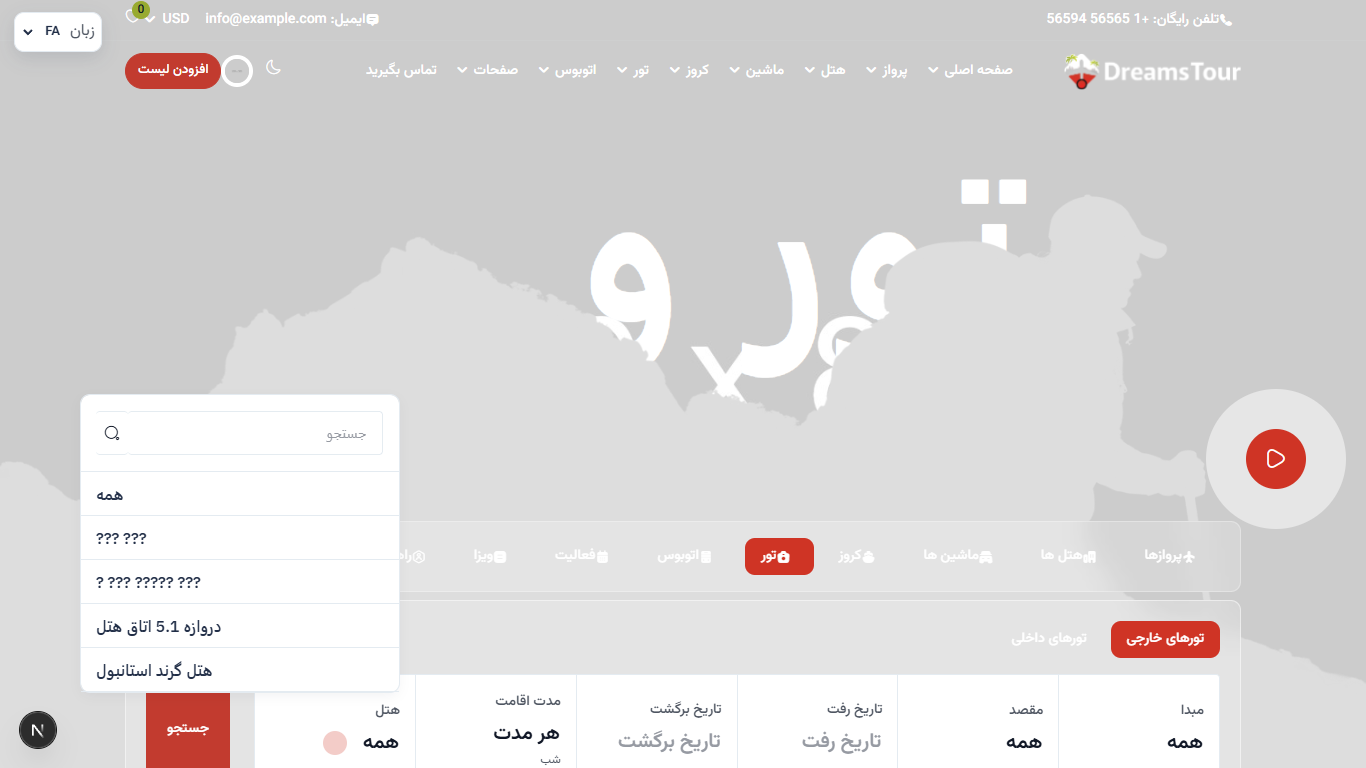
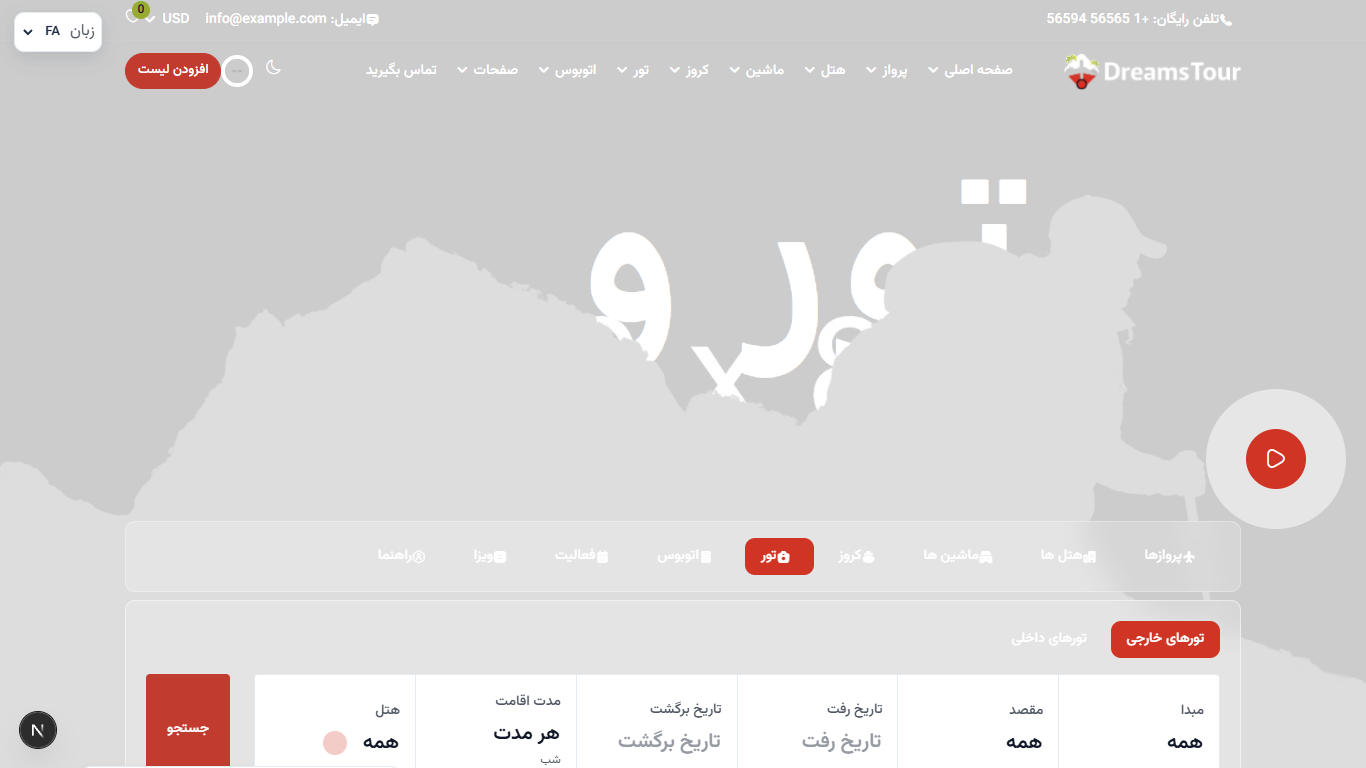
fix: keep dropdowns below and deduplicate date modal title

Changed region(s): [[0.0615, 0.5, 0.3075, 0.9062]]

diff --git a/frontend/src/components/booking-dropdown/bookingDropdown.tsx b/frontend/src/components/booking-dropdown/bookingDropdown.tsx
@@ -35,10 +35,8 @@ export default function BookingDropdown({
   const [subValue, setSubValue] = useState(defaultSubValue);
   const [query, setQuery] = useState("");
   const [open, setOpen] = useState(false);
-  const [dropUp, setDropUp] = useState(false);
   const [limit, setLimit] = useState(pageSize);
   const rootRef = useRef<HTMLDivElement>(null);
-  const inputRef = useRef<HTMLInputElement>(null);
   const inputId = useId();
   const menuId = useId();
 
@@ -78,12 +76,6 @@ export default function BookingDropdown({
   }, [open]);
 
   const openMenu = () => {
-    const rect = inputRef.current?.getBoundingClientRect();
-    if (rect) {
-      const spaceBelow = window.innerHeight - rect.bottom;
-      const spaceAbove = rect.top;
-      setDropUp(spaceBelow < 320 && spaceAbove > spaceBelow);
-    }
     setOpen(true);
   };
 
@@ -120,7 +112,6 @@ export default function BookingDropdown({
       </label>
 
       <input
-        ref={inputRef}
         id={inputId}
         type="text"
         className="form-control value-input"
@@ -143,9 +134,7 @@ export default function BookingDropdown({
 
       <div
         id={menuId}
-        className={`dropdown-menu dropdown-md p-0 ${open ? "show" : ""} ${
-          dropUp ? "drop-up" : ""
-        }`}
+        className={`dropdown-menu dropdown-md p-0 ${open ? "show" : ""}`}
         onClick={(event) => event.stopPropagation()}
       >
         <div className="input-search p-3 border-bottom">

diff --git a/frontend/src/components/hani/date/HaniDateRangePicker.tsx b/frontend/src/components/hani/date/HaniDateRangePicker.tsx
@@ -264,12 +264,7 @@ export function HaniDateRangePicker({
               <div className="hani-date-modal__card hani-date-modal__card--range">
                 <div className="hani-date-modal__header">
                   <div>
-                    <span className="hani-date-modal__eyebrow">
-                      {t("selectDate")}
-                    </span>
-                    <strong>
-                      {fromLabel} {toLabel ? `— ${toLabel}` : ""}
-                    </strong>
+                    <strong>{t("selectDate")}</strong>
                   </div>
                   <button
                     type="button"

diff --git a/frontend/src/components/hani/date/HaniDatePicker.tsx b/frontend/src/components/hani/date/HaniDatePicker.tsx
@@ -151,10 +151,7 @@ export function HaniDatePicker({
               <div className="hani-date-modal__card">
                 <div className="hani-date-modal__header">
                   <div>
-                    <span className="hani-date-modal__eyebrow">
-                      {t("selectDate")}
-                    </span>
-                    <strong>{placeholder ?? t("selectDate")}</strong>
+                    <strong>{t("selectDate")}</strong>
                   </div>
                   <button
                     type="button"

diff --git a/frontend/src/style/scss/components/_hani-booking-dropdown.scss b/frontend/src/style/scss/components/_hani-booking-dropdown.scss
@@ -15,11 +15,6 @@
     z-index: 1050;
 }
 
-.booking-dropdown .dropdown-menu.drop-up {
-    top: auto;
-    bottom: calc(100% + 6px);
-}
-
 .booking-dropdown .dropdown-menu ul {
     max-height: 280px;
     overflow-y: auto;

diff --git a/docs/reports/gate-9.1-calendar-architecture.md b/docs/reports/gate-9.1-calendar-architecture.md
@@ -11,7 +11,8 @@ Plan: [CALENDAR-ARCHITECTURE-PLAN.md](../plan/CALENDAR-ARCHITECTURE-PLAN.md)
 The first calendar architecture slice is implemented.
 
 - Persian (`fa`) date pickers now render a centered Jalali modal with
-  Persian digits and no prefilled date.
+  Persian digits and no prefilled date. The modal uses one title; field
+  labels are not repeated in the header.
 - English and Arabic pickers stay Gregorian.
 - Picker and display components exchange canonical Gregorian
   `YYYY-MM-DD` values.
@@ -51,8 +52,8 @@ Jalali conversion exists only in the UI adapter.
   without page-level calendar code.
 - Dashboard `PredefinedDateRanges` box with calendar-aware month presets.
 - Home hero dropdowns are self-contained, searchable, and progressively
-  reveal more options on scroll. They flip upward when there is not enough
-  space below the trigger.
+  reveal more options on scroll. They always open below the trigger and remain usable while the page
+  scrolls.
 - Public tour cards, home content, blog/content lists and details, agency
   profile, checkout, user/agent dashboards, invoices, payments, refunds,
   notifications and reviews now use the shared formatter.

diff --git a/docs/plan/STATUS.md b/docs/plan/STATUS.md
@@ -575,3 +575,4 @@
 - Calendar phase 2 implemented: global MediatR DateOnly guard, locale-aware picker facade, public display migration, CI date-architecture gate, AGENTS rules.
 - Calendar modal + no-default dates: home date inputs start empty, centered Jalali modal, searchable/scrollable home dropdowns; Playwright 16 passed.
 - Calendar/dropdown QA fix: repaired corrupted FA/AR message strings, date modal text verified, dropdown flips upward and stays inside viewport.
+- Date/dropdown QA follow-up: modal title deduplicated; dropdown always opens below and scrolls with the page.

diff --git a/docs/plan/DONE.md b/docs/plan/DONE.md
@@ -282,3 +282,4 @@
 | `bceddc5` | Calendar phase 2: global MediatR GregorianDateBehavior, CI date-architecture gate, platform-wide display/picker migration |
 | `55f1fd5` | Calendar UX closure: empty date inputs, centered Jalali modal, searchable/scrollable home dropdowns |
 | `fea4cf6` | Calendar/dropdown QA: repaired FA/AR message strings and kept dropdown menus inside the viewport |
+| `pending` | Date/dropdown QA follow-up: single modal title, dropdown always below, message strings repaired |
